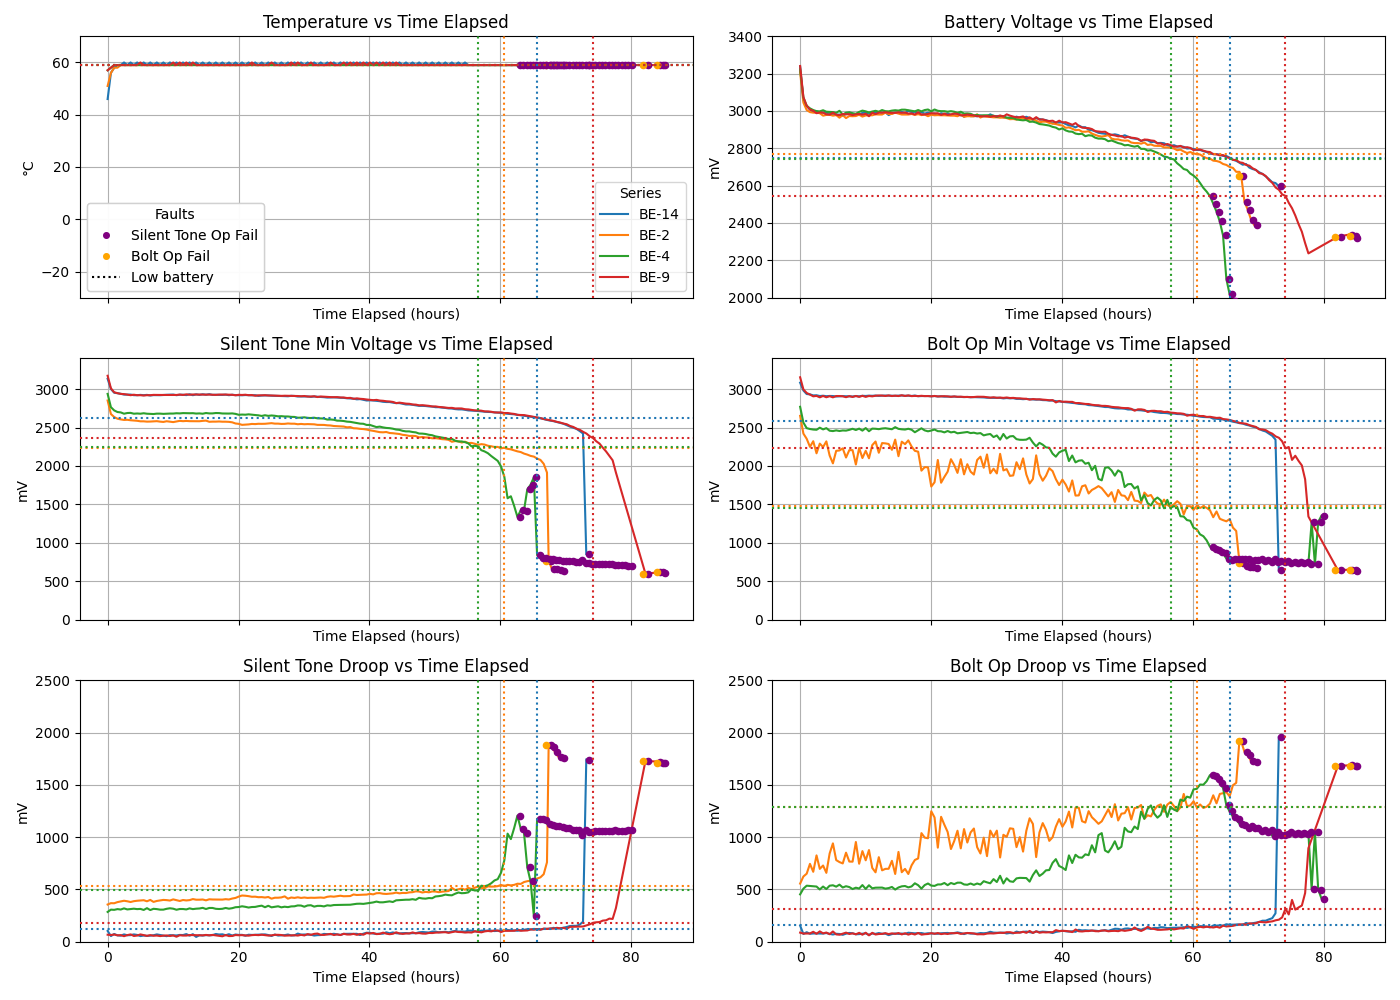
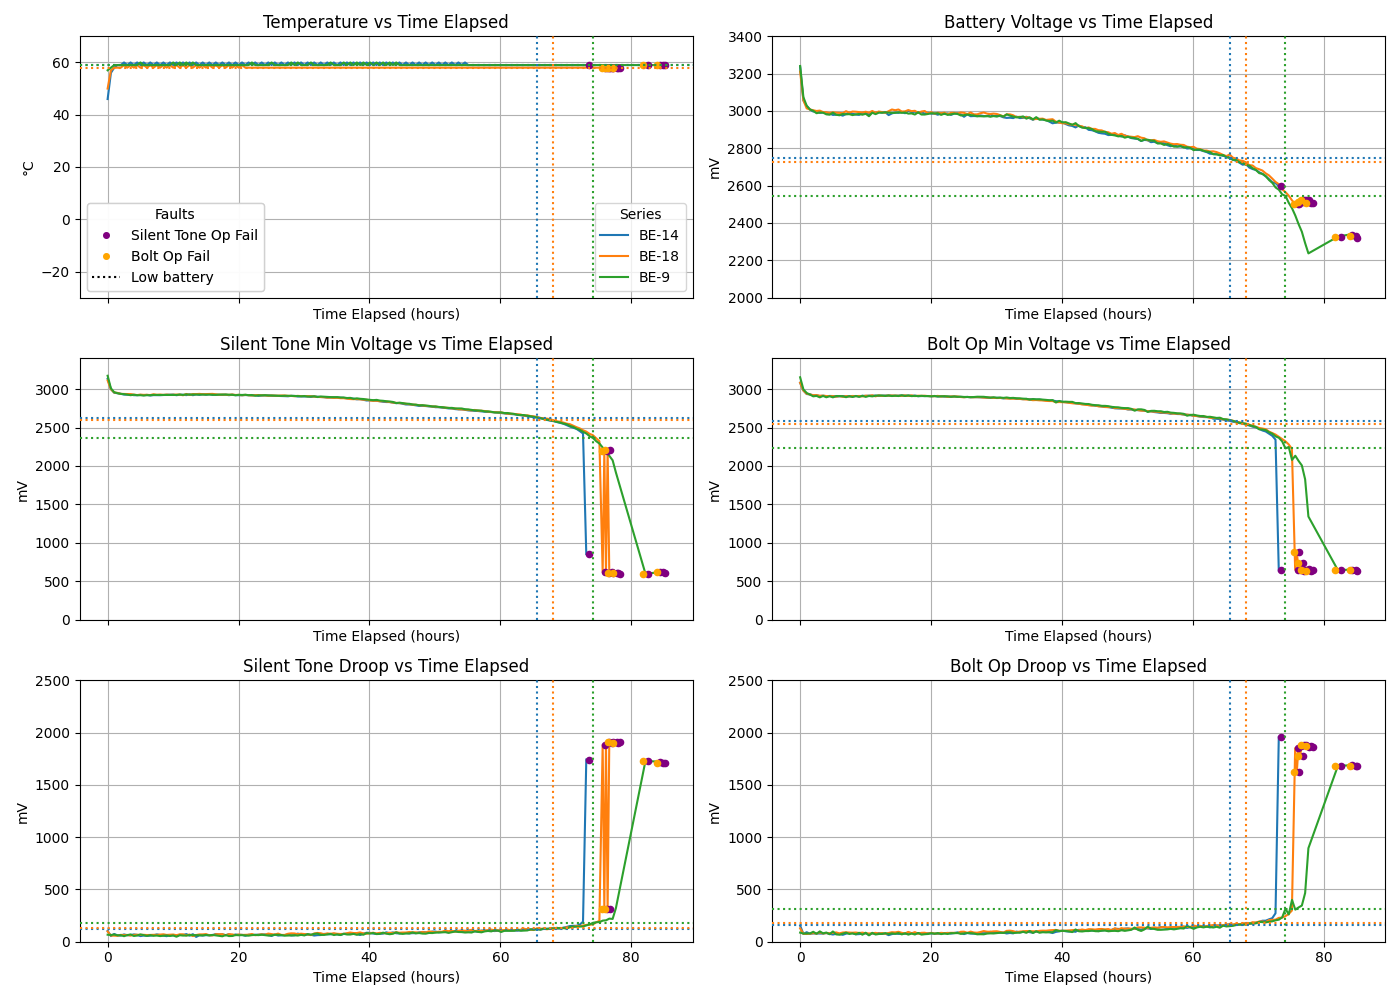
enegitech 60c

diff --git a/plot_folder.py b/plot_folder.py
@@ -6,7 +6,7 @@ import numpy as np  # NEW
 from matplotlib.lines import Line2D
 
 # CONFIGURATION
-CSV_DIR = "csvs/manufacturers-cross-temp/temp-60c/energizer"
+CSV_DIR = "csvs/manufacturers-cross-temp/temp-60c/enegitech"
 CSV_TAG = os.path.basename(os.path.normpath(CSV_DIR))
 PLOT_OUTPUT = f"plots/compare_all_{CSV_DIR.replace("/", "-")}.png"
 COMPUTE_LOW_BATT_BY_ALL_FAULTS=True
